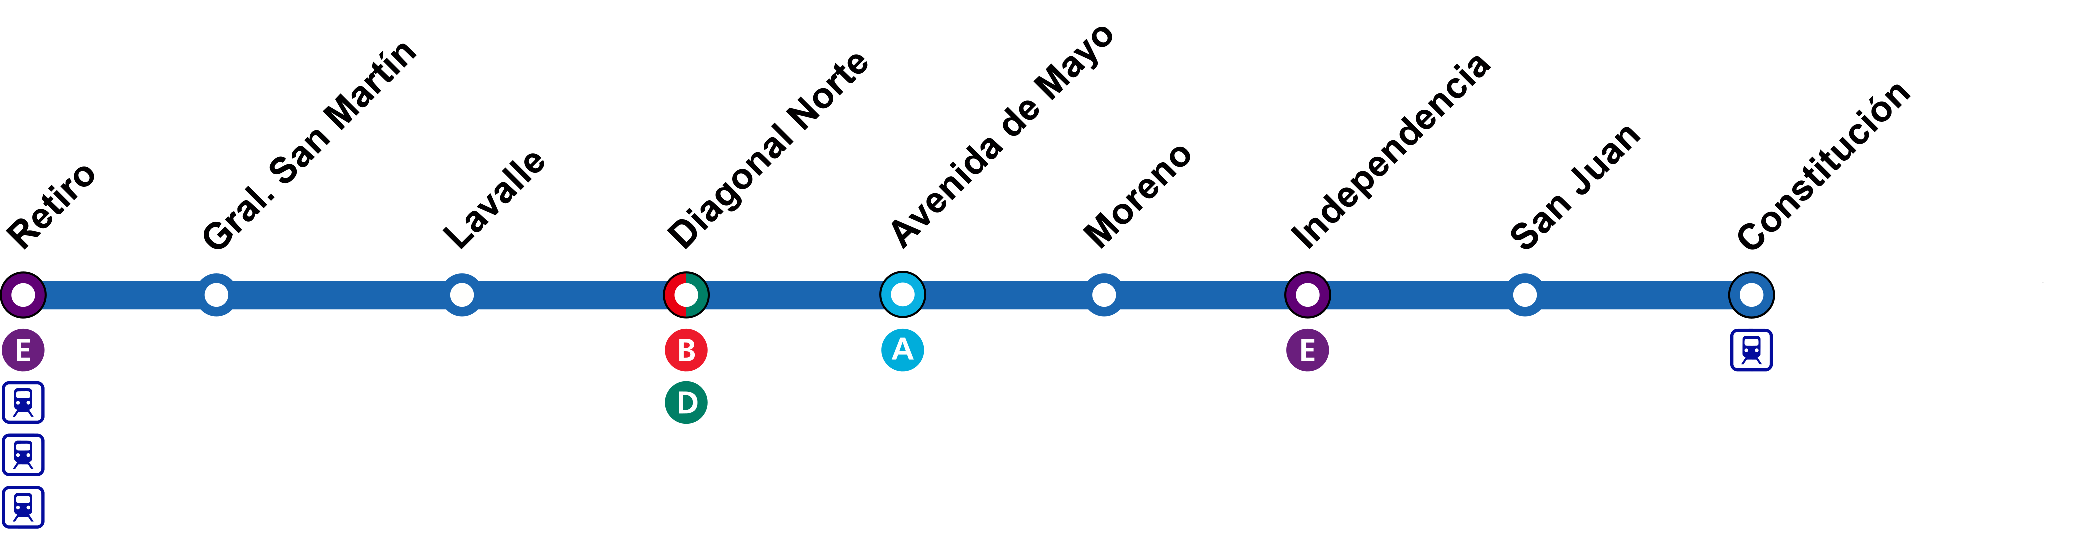
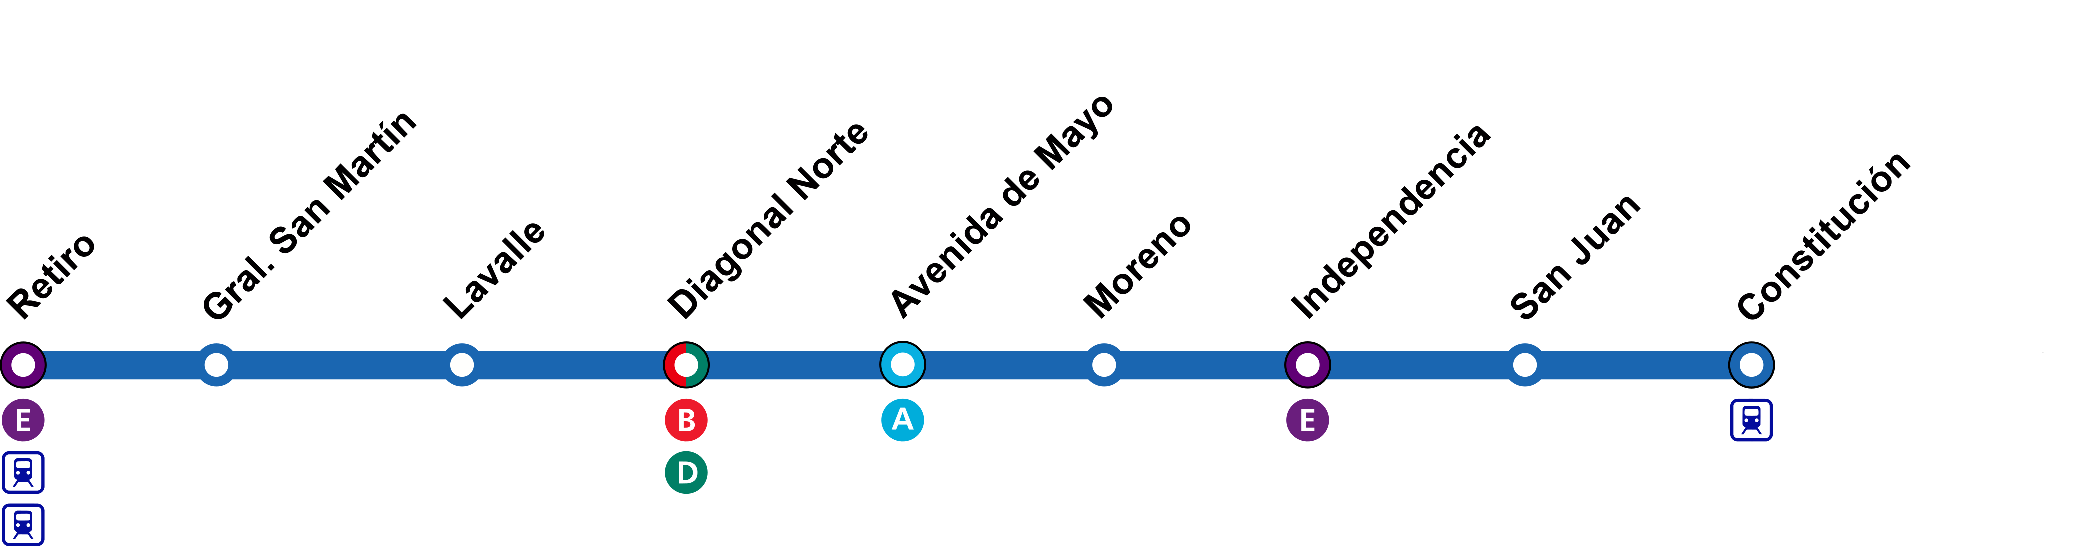
corrigiendo las alturas de la línea C y E

diff --git a/index6.html b/index6.html
@@ -153,15 +153,15 @@
       ],
       "Línea C": [
         // 9 estaciones (Retiro -> Constitución)
-        { nombre: "Retiro",            x: 15.2, y: 66.5 },
-        { nombre: "General San Martín",x: 15,   y: 66.5 },
-        { nombre: "Lavalle",           x: 30,   y: 66.5 },
-        { nombre: "Diagonal Norte",    x: 37.8, y: 66.5 },
-        { nombre: "Avenida de Mayo",   x: 45.3, y: 66.5 },
-        { nombre: "Moreno",            x: 55,   y: 66.5 },
-        { nombre: "Independencia",     x: 59,   y: 66.5 },
-        { nombre: "San Juan",          x: 66.2, y: 66.5 },
-        { nombre: "Constitución",      x: 74,   y: 66.5 }
+        { nombre: "Retiro",            x: 15.2, y: 58 },
+        { nombre: "General San Martín",x: 15,   y: 58 },
+        { nombre: "Lavalle",           x: 30,   y: 58 },
+        { nombre: "Diagonal Norte",    x: 37.8, y: 58 },
+        { nombre: "Avenida de Mayo",   x: 45.3, y: 58 },
+        { nombre: "Moreno",            x: 55,   y: 58 },
+        { nombre: "Independencia",     x: 59,   y: 58 },
+        { nombre: "San Juan",          x: 66.2, y: 58 },
+        { nombre: "Constitución",      x: 74,   y: 58 }
       ],
       "Línea D": [
         // 16 estaciones (Catedral -> Congreso de Tucumán)
@@ -185,23 +185,23 @@
       "Línea E": [
         // 17 estaciones (Plaza de los Virreyes -> Retiro)
         // (Aquí se incluye la extensión inaugurada en 2019)
-        { nombre: "Plaza de los Virreyes", x:  5,   y: 70.5 },
-        { nombre: "Varela",                x: 70.8, y: 70.5 },
-        { nombre: "Medalla Milagrosa",     x: 67.2, y: 70.5 },
-        { nombre: "Emilio Mitre",          x: 63.7, y: 70.5 },
-        { nombre: "José María Moreno",     x: 25,   y: 70.5 },
-        { nombre: "Avenida La Plata",      x: 30,   y: 70.5 },
-        { nombre: "General Urquiza",       x: 35,   y: 70.5 },
-        { nombre: "Jujuy",                 x: 46.5, y: 70.5 },
-        { nombre: "Pichincha",             x: 43.1, y: 70.5 },
-        { nombre: "Entre Ríos",            x: 50,   y: 70.5 },
-        { nombre: "San José",              x: 36,   y: 70.5 },
-        { nombre: "Independencia",         x: 32.6, y: 70.5 },
-        { nombre: "Belgrano",              x: 29,   y: 70.5 },
-        { nombre: "Bolívar",               x: 25.7, y: 70.5 },
-        { nombre: "Correo Central",        x: 22.3, y: 70.5 },
-        { nombre: "Catalinas",             x: 18.9, y: 70.5 },
-        { nombre: "Retiro",                x: 15.3, y: 70.5 }
+        { nombre: "Plaza de los Virreyes - Eva Perón", x:  5,  y: 66.2 },
+        { nombre: "Varela",                x: 70.8, y: 66.2 },
+        { nombre: "Medalla Milagrosa",     x: 67.2, y: 66.2 },
+        { nombre: "Emilio Mitre",          x: 63.7, y: 66.2 },
+        { nombre: "José María Moreno",     x: 25, y: 66.2 },
+        { nombre: "Avenida La Plata",      x: 30, y: 66.2 },
+        { nombre: "General Urquiza",       x: 35, y: 66.2 },
+        { nombre: "Jujuy",                 x: 46.5, y: 66.2 },
+        { nombre: "Pichincha",             x: 43.1, y: 66.2 },
+        { nombre: "Entre Ríos - Rodolfo Walsh", x: 50, y: 66.2 },
+        { nombre: "San José",              x: 36, y: 66.2 },
+        { nombre: "Independencia",         x: 32.6, y: 66.2 },
+        { nombre: "Belgrano",              x: 29, y: 66.2 },
+        { nombre: "Bolívar",               x: 25.7, y: 66.2 },
+        { nombre: "Correo Central",        x: 22.3, y: 66.2 },
+        { nombre: "Catalinas",             x: 18.9, y: 66.2 },
+        { nombre: "Retiro",                x: 15.3, y: 66.2 }
       ],
       "Línea H": [
         // 12 estaciones (Facultad de Derecho -> Hospitales)
